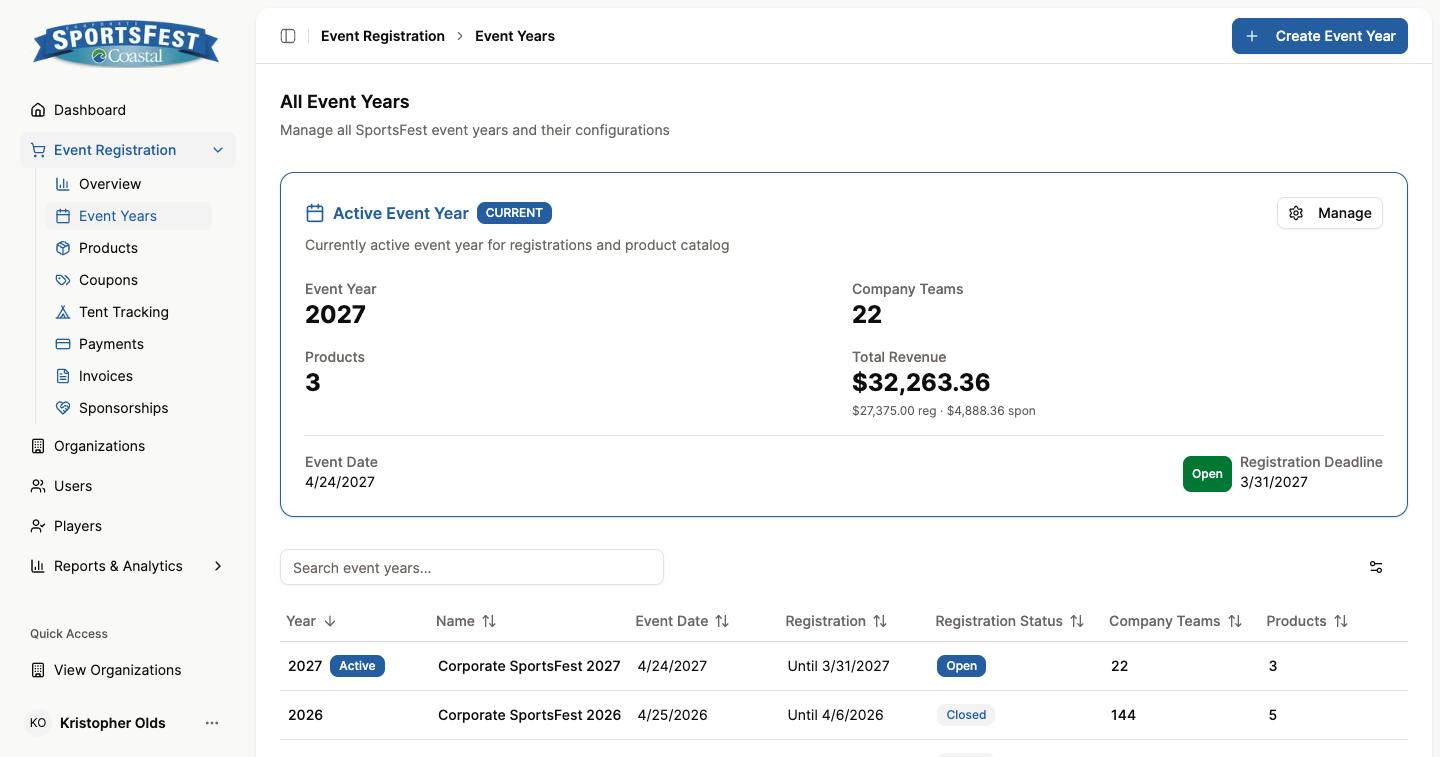
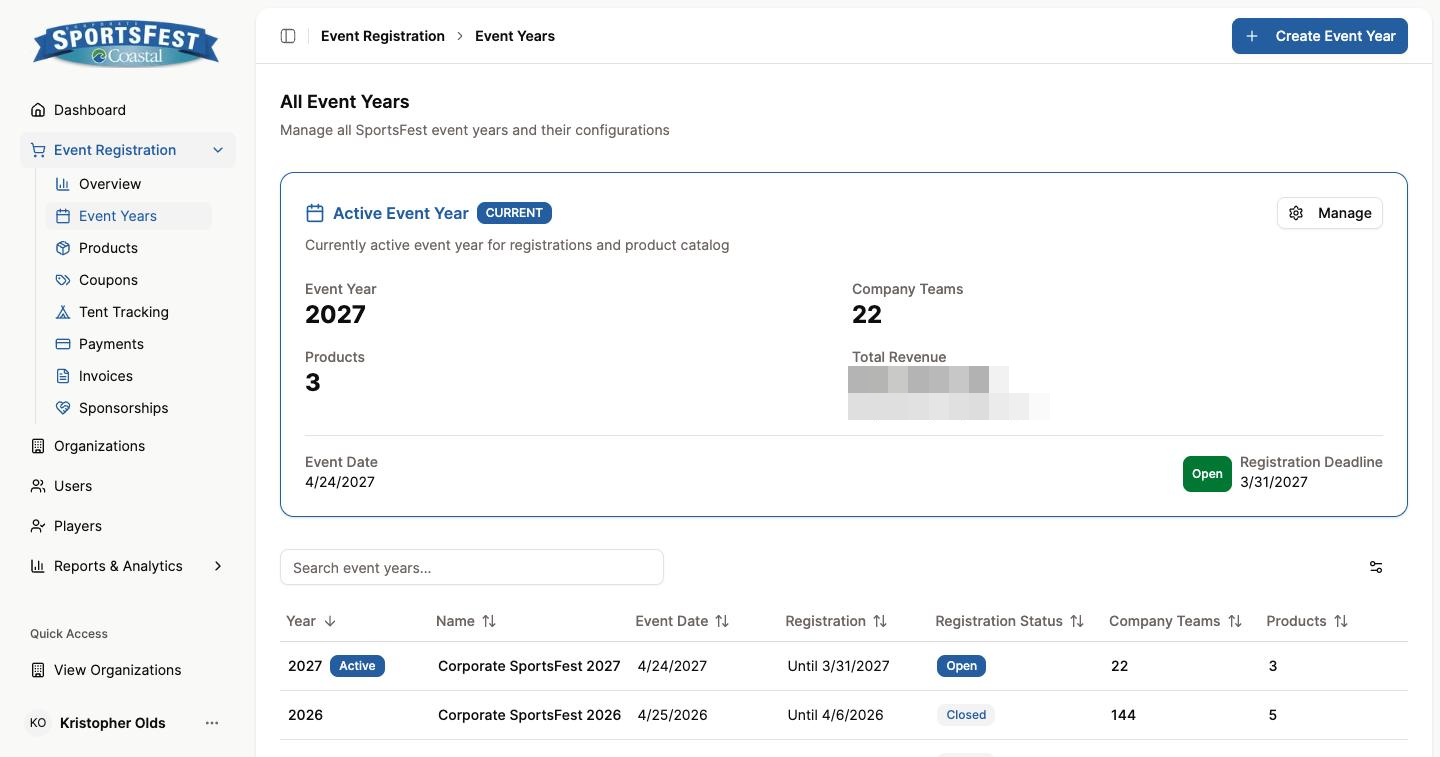
fix: review pass: pixelate product photos and 2027 revenue, correct unsupported claims, drop secret from log

Changed region(s): [[0.5625, 0.4861, 0.7188, 0.5773]]

diff --git a/code/apps/public-api/app/organization/route.ts b/code/apps/public-api/app/organization/route.ts
@@ -1,5 +1,5 @@
 // Showcase note: a route from the third app, the public API. API-key authenticated, returns
-// the caller's organization. Shares the auth and database packages with the dashboard.
+// the caller's organization. Shares the api-keys and database packages with the dashboard.
 
 import { db, eq } from '@workspace/database/client';
 import { organizationTable } from '@workspace/database/schema';

diff --git a/code/apps/dashboard/app/api/stripe/create-payment-intent/route.ts b/code/apps/dashboard/app/api/stripe/create-payment-intent/route.ts
@@ -129,7 +129,7 @@ export async function POST(request: NextRequest) {
       },
     });
 
-    console.log('✅ Payment intent created:', paymentIntent.id, 'client_secret:', paymentIntent.client_secret);
+    console.log('✅ Payment intent created:', paymentIntent.id);
 
     // Update order with Stripe payment intent ID
     await db

diff --git a/README.md b/README.md
@@ -4,7 +4,7 @@ One platform replaced a patchwork of event software, WordPress plugins, and PDFs
 
 ![Organizer dashboard](docs/screenshots/organizer-dashboard.png)
 
-This repository is a case study with a curated set of real, scrubbed source files. The product itself is private and client-owned. See [About the code folder](#about-the-code-folder) for what is and is not here.
+This repository is a case study with a curated set of real, scrubbed source files. The product itself is private and client-owned. Screenshots were taken on a development environment against a fictional organization, Cedar Point Robotics, with invented players and organizers; the 2027 products and prices shown are the real public price list, and product photos are pixelated. See [About the code folder](#about-the-code-folder) for what is and is not here.
 
 - Live: [sportsfest.com](https://sportsfest.com) and the signup site at [join.sportsfest.com](https://join.sportsfest.com)
 - Built by Kris Olds at LAYBL Labs, August to December 2025, maintained since
@@ -31,7 +31,7 @@ Three kinds of people use it:
 | Event year management: each year's dates, pricing, and products in one place | Shop and checkout through Stripe, with order and invoice views | Branded signup page for each organization |
 | Products for team registration, tents, and equipment, with inventory | Deposit now, pay the balance later | Event interest ranking at signup |
 | Coupons for sponsors and discounted pricing | Card and ACH payments, so sponsors can settle large invoices by bank transfer | Playing or spectating role |
-| Sponsorship invoices with secure payment links | Recruitment tools hub with share-by-link, QR code, and email | Confirmation email to the player, notification to the organizer |
+| Sponsorship invoices with secure payment links | Recruitment tools hub with share-by-link, QR code, and email | Notification email to the organizer on each signup |
 | Payment and invoice management, pending through refunded | Player tables with filters and CSV, Excel, and PDF exports | |
 | Tent tracking with availability and purchase detail | Team roster builder driven by the interests players chose | |
 | Organization, user, and player management across every company | Event roster builder for each team across all five beach events | |
@@ -81,11 +81,11 @@ The full diagram, one paragraph per package, and the dashboard's rendering patte
 
 **One monorepo, three apps, twelve packages.** The organizer and admin dashboard, the public marketing and signup site, and a public API share twelve internal packages for the database schema, authentication, billing, email, monitoring, and UI. Apps never import from each other. The workspace layout is three globs in [`code/pnpm-workspace.yaml`](code/pnpm-workspace.yaml); the task graph is [`code/turbo.json`](code/turbo.json).
 
-**One design system.** Every screen in all three apps is composed from a single shadcn/ui component library in the shared [`ui` package](code/packages/ui/package.json): about seventy components on Radix primitives and Tailwind, copied into the repo so they can be changed freely. The [base Button](code/packages/ui/src/components/button.tsx), the composed [DataTable](code/packages/ui/src/components/data-table.tsx) that every list uses, and the [chart wrapper](code/packages/ui/src/components/chart.tsx) under every analytics card are in the code folder, along with a [product table](code/apps/dashboard/components/organizations/slug/players/players-data-table.tsx) built from them. We never designed a dropdown twice.
+**One design system.** Every screen in all three apps is composed from a single shadcn/ui component library in the shared [`ui` package](code/packages/ui/package.json): 76 components on Radix primitives and Tailwind, copied into the repo so they can be changed freely. The [base Button](code/packages/ui/src/components/button.tsx), the composed [DataTable](code/packages/ui/src/components/data-table.tsx) that every list uses, and the [chart wrapper](code/packages/ui/src/components/chart.tsx) under every analytics card are in the code folder, along with a [product table](code/apps/dashboard/components/organizations/slug/players/players-data-table.tsx) built from them. We never designed a dropdown twice.
 
 **Everything is scoped to an organization and an event year.** Every SportsFest row carries an `organizationId` and an `eventYearId`, and every query in the data layer and every server action filters by the caller's organization. The [schema excerpt](code/packages/database/src/schema.ts) shows the tenant core and the SportsFest tables that hang off it. Opening 2027 registration the week after the 2026 event meant inserting one event-year row.
 
-**Parallel route slots and server actions.** Dashboard pages are composed from 98 parallel route slots, each loading one card or table with its own loading and error state. Mutations are 159 server actions rather than an API layer; [`update-player.ts`](code/apps/dashboard/actions/players/update-player.ts) shows the full shape: Zod input, session and permission check, a transaction, cache revalidation.
+**Parallel route slots and server actions.** Dashboard pages are composed from 98 parallel route slots, each loading one card or table with its own loading and error state. Mutations are about 160 server actions rather than an API layer; [`update-player.ts`](code/apps/dashboard/actions/players/update-player.ts) shows the full shape: Zod input, session and permission check, a transaction, cache revalidation.
 
 ## Integrations
 
@@ -97,7 +97,7 @@ Each service below does a specific job in the product, and each links to the fil
 
 ![Purchase confirmation email](docs/screenshots/email-purchase-confirmation.png)
 
-**Auth.js with Microsoft Entra ID and Google.** Most organizers sign in with a corporate Microsoft account. The [provider configuration](code/packages/auth/src/providers.ts) wires both OAuth providers plus credentials, TOTP, and recovery codes, with rate limiting on sign-in attempts, over the [Drizzle adapter](code/packages/auth/src/adapter.ts) so auth tables share the schema and migrations with everything else.
+**Auth.js with Microsoft Entra ID and Google.** Organizers sign in with a corporate Microsoft account or a Google account. The [provider configuration](code/packages/auth/src/providers.ts) wires both OAuth providers plus credentials, TOTP, and recovery codes, with in-memory rate limiting on sign-in attempts, over the [Drizzle adapter](code/packages/auth/src/adapter.ts) so auth tables share the schema and migrations with everything else.
 
 **Supabase Postgres through Drizzle.** The schema is 51 tables, hand-written migrations, and typed queries from one package. Row-level security policies on the Supabase project ([`rls-policies.sql`](code/packages/database/rls-policies.sql)) are a second lock on the Supabase API surface; the app's own isolation is the organization scoping described above.
 
@@ -154,7 +154,7 @@ The 2026 season, the first on the platform.
 
 2027 registration opened April 27, 2026, the week after the 2026 event. Fourteen of the first eighteen companies to register were returning from 2026.
 
-Technical footprint: 51 database tables, about 130,000 lines of TypeScript, 98 parallel route slots, 159 server actions, 76 design system components, 16 email templates.
+Technical footprint: 51 database tables, about 130,000 lines of TypeScript, 98 parallel route slots, about 160 server actions, 76 design system components, 16 email templates.
 
 ![Shop](docs/screenshots/organizer-shop.png)
 

diff --git a/docs/architecture.md b/docs/architecture.md
@@ -60,7 +60,7 @@ Solid arrows are workspace imports or the service a package wraps. Dashed arrows
 
 **dashboard** is the product. Organizers sign in to buy team slots and tents, see who signed up, and build team and event rosters. Hosts use the `/admin` area of the same app to manage event years, products, coupons, sponsorships, payments, and reports. It also hosts the one public write endpoint, the team-signup API route, which the marketing site posts to.
 
-**marketing** is the public site and the per-organization player signup page at `/on/<slug>`. It reads the organization's name and logo from the database for branding, but every write goes through the dashboard's API route, so the marketing app has no mutation code of its own.
+**marketing** is the public site and the per-organization player signup page at `/on/<slug>`. It fetches the organization's name and logo over a dashboard API route for branding, and every write goes through the dashboard's team-signup route, so the marketing app has no database access of its own.
 
 **public-api** exposes a small set of API-key-authenticated routes for integrations. It shares the database and api-keys packages with the dashboard and nothing else.
 

diff --git a/code/README.md b/code/README.md
@@ -7,7 +7,7 @@ tree alone. It is not runnable: imports of files that were not copied are left a
 
 ## Monorepo and tooling
 
-- `turbo.json` — the Turborepo task graph for three apps and twelve packages; `globalEnv` lists every environment variable the build depends on (names only; several analytics entries are template leftovers that the product does not use).
+- `turbo.json` — the Turborepo task graph for three apps and twelve packages; `globalEnv` lists the declared environment variables (names only; several analytics entries are template leftovers that the product does not use).
 - `pnpm-workspace.yaml` — the workspace is three globs: apps, packages, tooling.
 - `tooling/typescript-config/` — shared TypeScript presets (`base`, `nextjs`, `react-library`) that every app and package extends.
 
